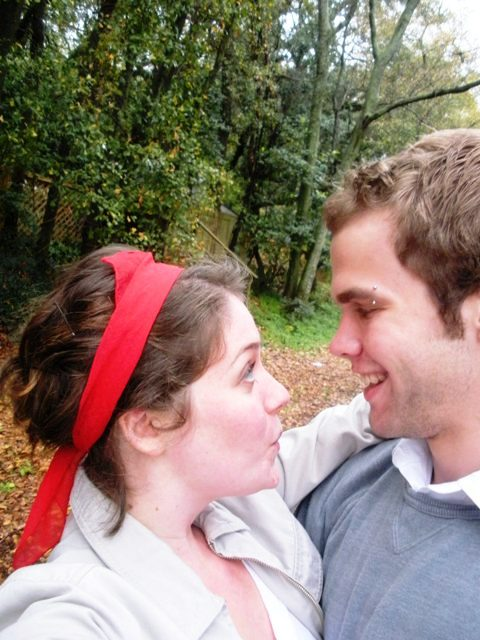
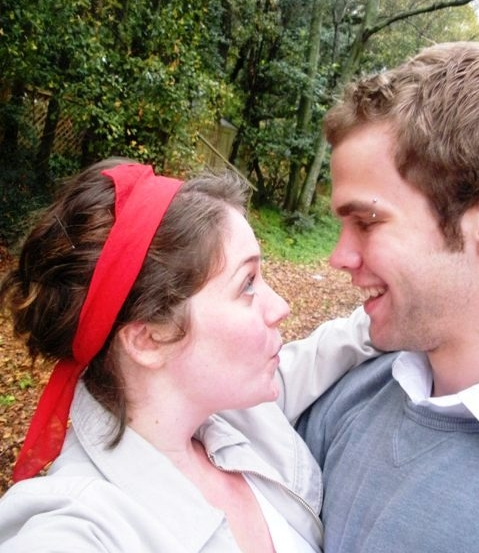
Welcome page, new photo, text about us

diff --git a/index.html b/index.html
@@ -24,18 +24,21 @@
             <!-- link_wrapper -->
             <div id="link_wrapper">
                 <a href="index.html">
+                    Welcome!
+                </a>
+                <a href="our_story.html">
                     Our Story
                 </a>
                 <a href="wedding_party.html">
                     Wedding Party
                 </a>
-                <a href="#">
+                <a href="guest_info.html">
                     Guest Info
                 </a>
-                <a href="#">
+                <a href="registry.html">
                     Registry
                 </a>
-                <a href="#">
+                <a href="guest_book.html">
                     Guest Book
                 </a>
             </div>
@@ -45,21 +48,21 @@
                 <div id="content_wrapper">
                     <div id="content">
                         <a id="our_story_portrait" class="polaroid_photo" href="#">
-                            <img class="content_image" src="images/photos/20.jpg" /> 
+                            <img class="content_image" src="images/photos/66.jpg" /> 
                             <div id="our_story_caption" class="polaroid_photo_caption">
-                                September 2008
+                                February 2009
                             </div>
                         </a>    
-                        Welcome! We can't wait to share our big day with you. Hopefully you can find everything you need here about our wedding. Please check back, because we'll be adding new info every so often. Also while you're here, remember to sign the Guest Book and say hello!
+                        <h2>Welcome!</h2> We can't wait to share our big day with you, and we are just counting the days until September 1st. Hopefully you can find everything you need here about our wedding, including places to stay, ways to get there, and things to do when you arrive. Please check back, because we'll be adding new info every so often. Also while you're here, remember to sign the Guest Book and say hello!
+
                         <br /> 
-                        -Erik and Alisen  
+                        <h3>- Erik and Alisen</h3>  
                     </div>
                 </div>
             </div>
 
             <!-- footer_wrapper -->
             <div id="footer_wrapper" class='cursive'>
-                <div id='footer'> September 1, 2012 </div>
             </div>
         </div>
     </body>

diff --git a/css/style.css b/css/style.css
@@ -166,7 +166,7 @@ a {
 #content_wrapper {
     font-size: 1.2em;
     position:relative;
-    margin: 0 1%;
+    margin: 0 19%;
 }
 
 .polaroid_photo {
